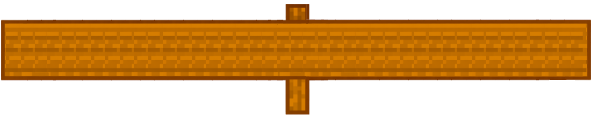
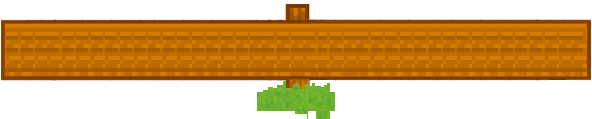
Fix UI for garden plots

Changed region(s): [[0.4257, 0.6555, 0.5777, 1.0]]

diff --git a/src/plot-style.css b/src/plot-style.css
@@ -27,15 +27,15 @@ body {
     left: 0;
     top: 0;
     height: 100%;
-    width: 10%;
+    width: 10.4%;
     display: flex;
     flex-direction: column;
     align-items: center;
-    border-radius: 2px;
+    padding-top: 1%;
+    z-index: 2;
+    gap: 20px;
+    border-radius: 5%;
 
-    border-right: 9px solid #3a2109;
-    border-top: 0px solid #3a2109;
-    z-index: 1;
 }
 
 #right-plot-panel {
@@ -67,11 +67,11 @@ body {
 }
 
 #top-plot-panel {
-    position: absolute;
-    top: 0;
-    left: 10.45%;
-    height: 12.6%;
-    width: 79.6%;
+    position: relative;
+    bottom: 44.3%;
+    left: .14%;
+    height: 11.6%;
+    width: 79.4vw;
     display: flex;
     flex-direction: row;
     align-items: center;
@@ -81,48 +81,51 @@ body {
     text-align: center;
     background-color: var(--theme-color);
     overflow: hidden;
+    z-index: 1;
 }
 
 #main-panel {
     position: absolute;
-    top: 11.5%;
-    left: 10%;
+    top: 11.3%;
+    left: 10.15%;
     right: 6%;
     height: 69%;
-    width: 79.8%;
+    width: 79.4%;
     display: flex;
     flex-direction: row;
     align-items: center;
     justify-content: center;
     background-color: #2e152ed8;
-    box-shadow: 0 4px 6px rgba(0, 0, 0, 0.1);
+    box-shadow: 15px 12px 2px rgba(0, 0, 0, 0.1);
+    border-radius: 10px;
 }
 #plot-title-sign {
     position: absolute;
-    height: 9vh;
-    width: 25vw;
-    align-items: center;
-    justify-content: center;
-    top: 3.2vh;
+    left: 50%;
+    transform: translateX(-50%);           
+    top: .32vh;         
+    width: clamp(220px, 31vw, 720px);     
+    aspect-ratio: 4 / 1;                   
     z-index: 2;
     background-image: url(assets/plot-title-post.png);
     background-repeat: no-repeat;
-    text-align: center;
-
-    
+    background-size: contain;              
+    background-position: center;
+    pointer-events: none;
 }
+
 #plot-title {
     position: absolute;
     color: rgb(60, 177, 93);
-    font-size: 3vw;
+    font-size: 2.5vw;
     font-family: "Rubik Bubbles";
     text-align: center;
     z-index: 2;
     text-shadow: none;
-    bottom: 2vh;
-    height: 19%;
+    bottom: 3.4vh;
+    height: 20%;
     width: 100%;
-    text-shadow: #000000 1px 3px 0;;
+    text-shadow: #000000 1px 1px 0;;
 }
 
 #back-menu-button {
@@ -132,31 +135,54 @@ body {
     border-radius: 55%;
 }
 
+#left-button-container {
+    position: relative;
+    top: -2.3%;
+    width: 98%;
+    height: 14.2%;
+    display: flex;
+    justify-content: center;
+
+    box-shadow: 0px 0 14px rgba(0, 0, 0, 0.5); /* Apply a general shadow */
+    clip-path: inset(-10px -10px 0px 0px); /* Clip the top, left, and bottom */
+    
+}
+
+#settings-button {
+    position: absolute;
+    font-size: 1.4vw;
+    margin-top: 15%;
+    margin-right: 15px;
+    border-radius: 55%;
+}
+
 .panel-item-container {
-    width: 106%;
+    width: 90%;
     height: 12%;
     text-align: center;
     align-items: center;
     border-top: none;
-    background-image: url(assets/plot-container-back.png);
     background-repeat: no-repeat;
     background-size: cover;
     overflow: hidden;
-    
+    background-color: #685623;
+    border-radius: 12%;
+    border: #3cb15d 0 solid;
+    box-shadow: #000000 -1.7px 3px 5px;
 }
 
-#veggies-title {
-    font-size: 1.9vw;
-    padding: 10px 20px;
-    font-family: "Tiny5", sans-serif;
+.panel-item-title {
+    padding-top: 15px;
+    font-size: 1.5vw;
+    font-family: "Rubik Bubbles", sans-serif;
     text-align: center;
     margin-top: 13%;
     margin-left: 5%;
-    text-shadow: -1px 9px 2px #000000;
+    text-shadow: 0px 1px 3px #000000;
     -webkit-background-clip: text;
     -moz-background-clip: text;
     background-clip: text;
-    color: #2f5500;
+    color: #3cb15d;
 }
 
 .animated-bird {
@@ -165,4 +191,23 @@ body {
     right: 40%;
     width: 20%;
     z-index: 1;
+    animation: floatation 4s ease-in-out infinite;
+
 }
+
+@keyframes floatation {
+    0% { transform: translateY(0); }
+    50% { transform: translateY(-38px); }
+    100% { transform: translateY(0); }
+}
+
+#plot-items-container {
+    margin-top: -23%;
+    display: flex;
+    flex-direction: column;
+    gap: 20px;
+    align-items: center;
+    width: 100%;
+    height: 100%;
+}
+

diff --git a/src/components/StartPlot.jsx b/src/components/StartPlot.jsx
@@ -2,6 +2,7 @@ import React, { useRef } from 'react';
 import '../plot-style.css';
 import PlotDecorations from './PlotDecorations';
 import AnimatedBird from './AnimateBird';
+import PlotPanelItem from './PlotPanelItem';
 
 const StartPlot = ({ onBack, dark, setDark }) => {
   const selectedPlotName = typeof window !== 'undefined' ? localStorage.getItem('selectedPlotName') : null;
@@ -12,7 +13,7 @@ const StartPlot = ({ onBack, dark, setDark }) => {
     <div 
       id="garden-plot-container"
       style={{
-        backgroundImage: `url(${require('../assets/plot-background.png')})`,
+        backgroundImage: `url(${require('../assets/background_img.png')})`,
         backgroundSize: 'cover',
         backgroundPosition: 'center',
         width: '100%',
@@ -23,11 +24,18 @@ const StartPlot = ({ onBack, dark, setDark }) => {
       }}
     >
       <div id="left-plot-panel">
-        <div className='panel-item-container' id='veggies-container'>
-          <h1 id='veggies-title'>
-          Veggies
-        </h1>
+
+        <div id='left-button-container'>
+          <button className="green-button" id='settings-button'>Settings</button>
         </div>
+        
+        <div id='plot-items-container'>
+          <PlotPanelItem title="Veggies" className="veggie-container" />
+          <PlotPanelItem title="Structs" className="structure-container" />
+          <PlotPanelItem title="Beds" className="structure-container" />
+        </div>
+        
+
       </div>
        <div id='top-plot-panel'>
 
@@ -58,8 +66,9 @@ const StartPlot = ({ onBack, dark, setDark }) => {
         ref={mainRef}
         style={{
           backgroundImage: `url(${require('../assets/Empty-grass-plot.png')}) `,
-          border: '5px solid rgb(59, 37, 26)',
+          border: '#58481cff 5px solid',
           borderTop: 'none',
+
         }}
       ></div>
       

diff --git a/src/components/AnimateBird.jsx b/src/components/AnimateBird.jsx
@@ -6,6 +6,7 @@ const AnimatedBird = ({ flapIntervalMs = 300 }) => {
 	useEffect(() => {
 		let cancelled = false;
 		let currentAnim = null;
+		let floatation = null;
 		const birdEl = document.getElementById("birdie");
 		if (!birdEl) return;
 
@@ -69,8 +70,10 @@ const AnimatedBird = ({ flapIntervalMs = 300 }) => {
 					}
 				);
 
+
 				try {
 					await currentAnim.finished;
+					
 				} catch {
 					break;
 				}

diff --git a/src/components/PlotPanelItem.jsx b/src/components/PlotPanelItem.jsx
@@ -1,0 +1,12 @@
+import React from "react";
+import '../plot-style.css';
+
+const PlotPanelItem = ({ title }) => {
+  return (
+    <div className="panel-item-container">
+      <h1 className="panel-item-title">{title}</h1>
+    </div>
+  );
+};
+
+export default PlotPanelItem;
